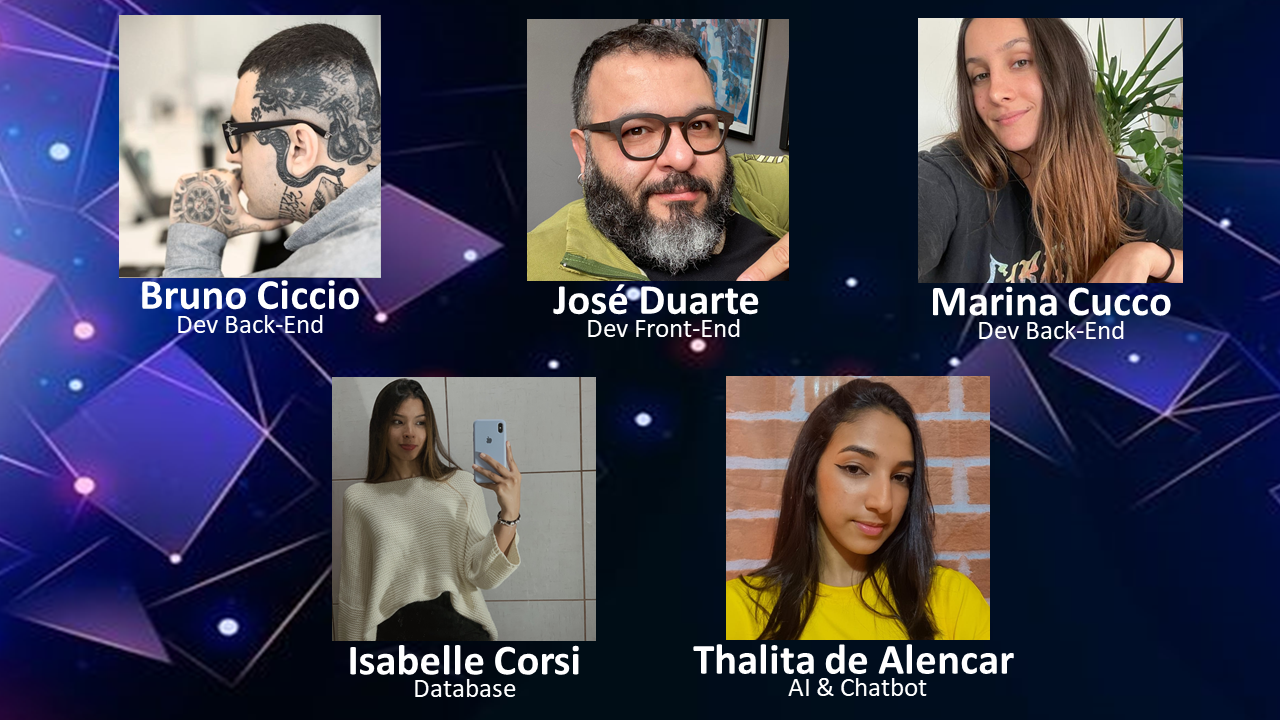
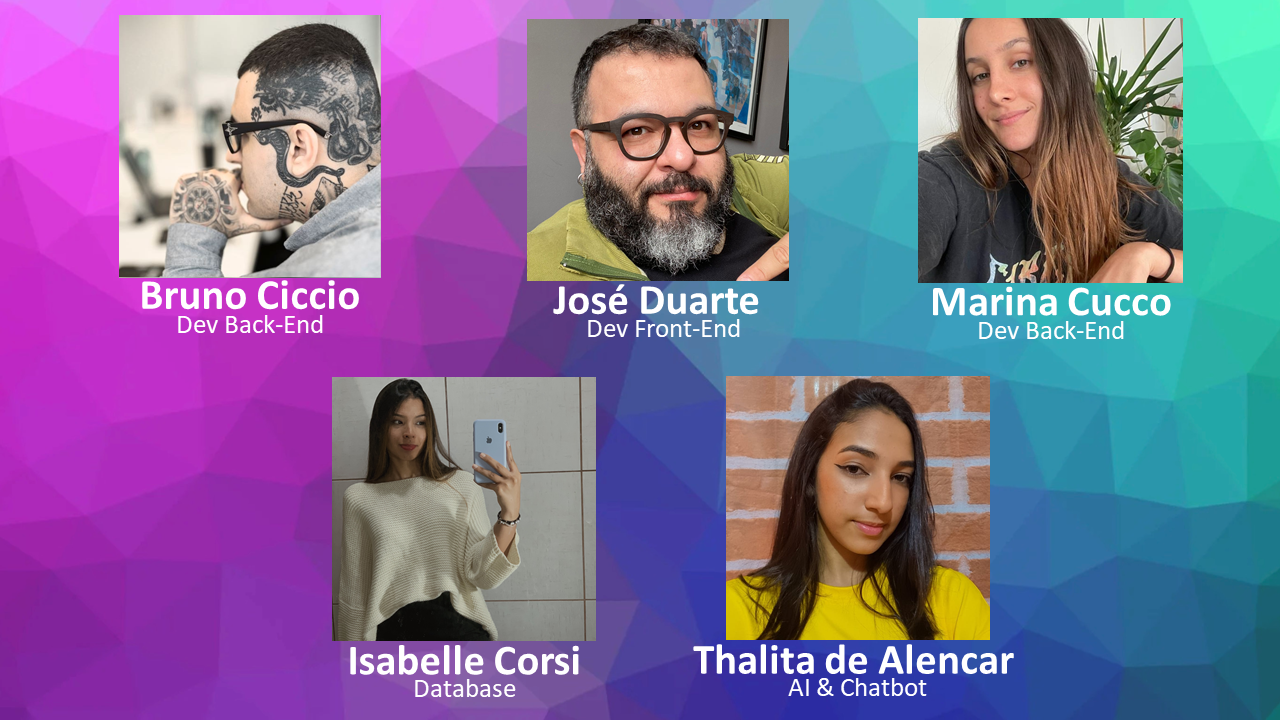
Mudanças no footer, e algumas melhorias no css

diff --git a/ai-&-chatbot.html b/ai-&-chatbot.html
@@ -30,7 +30,7 @@
     <div id="div__p">
             <h2 id="titulo__p">Chatbot do Projeto SAV</h2>
             <p id="paragrafo__p">O objetivo do grupo é desenvolver uma aplicação na qual, o processo de vistoria de bicicletas para o seguro da porto seja <strong>automatizado.</strong> Assim, ciclistas poderão realizar seus seguros sem <strong>sair  de casa, com mais rapidez e conforto.</strong> Ao decorrer do projeto o bot sofrerá diversas atualizações, assim melhorando a interface e usabilidade do cliente. A seguir, podemos ver como está o andamento do projeto através do diagrama exibido abaixo:</p>
-        <br><br><img id="img__p" src="imagens-projeto/sav-diagrama-novo-chatbot.png" alt="Diagrama do SAVBot">
+        <br><br><img id="img__p" src="imagens-projeto/sav-diagrama-novo-chatbot.png" alt="Diagrama do SAVBot"> <br><br>
     </div>
     <footer>
         <p class="copyright">&copy; Copyright SAV - Sistema de Automação de Vistorias - 2023</p>

diff --git a/computational-thinking-using.-python.html b/computational-thinking-using.-python.html
@@ -47,10 +47,10 @@
         </ul>
 
         <h3>Seguem abaixo 4 prints com partes das etapas de nosso Sistema: <br><br></h3>
-            <img src="imagens-projeto/print1pythonn.png">
-            <img src="imagens-projeto/print2pythonn.png">
-            <img src="imagens-projeto/print3pythonn.png">
-            <img src="imagens-projeto/print4pythonn.png">
+            <img src="imagens-projeto/print1pythonn.png"> <br> <br>
+            <img src="imagens-projeto/print2pythonn.png"> <br> <br>
+            <img src="imagens-projeto/print3pythonn.png"> <br><br>
+            <img src="imagens-projeto/print4pythonn.png"> <br><br>
         </div>
     </div>
    

diff --git a/software-design-&-total-experience.html b/software-design-&-total-experience.html
@@ -111,7 +111,7 @@
                 <br><p class="paragrafo">Video - Pitch - SAV</p><br>
                 <br><video width="50%" height="315" frameborder="0" autoplay controls>
                     <source src="videos-projeto/5FA7155F-C4FD-4B3F-8EDF-CC69F517CE85.mp4" type="video/mp4">
-                </video>                
+                </video><br><br>                
         </section>
     </main>
     <footer>

diff --git a/css-projeto/equipe.css b/css-projeto/equipe.css
@@ -8,7 +8,7 @@
     font-size: 45px;
     color: #ffffff;
     text-align: center;
-    padding: 20px;
+    padding: 15px;
     font-family: 'Montserrat', sans-serif;   
 }
 
@@ -16,7 +16,7 @@
     font-size: 20px;
     text-align: left;
     font-family: 'Montserrat', sans-serif;
-    margin: 10px 0 0 10px;
+    margin: 3px 0 0 10px;
     color: #ffffff;
 }
 

diff --git a/style.css b/style.css
@@ -51,13 +51,14 @@ footer {
 	text-align: center;
 	padding: 20px 0;
 	margin-top: 10px;
-	background: url(imagens-projeto/fundo-de-tela-sav.jpeg)
+	background: url(imagens-projeto/fundo.jpeg)
+	
 	
 }
 
 footer p {   
 	color: #fafafa;
-	padding: 20px;
+	padding: 30px;
 	font-size: 15px;
 	font-family: 'Montserrat', sans-serif;
 }

diff --git a/equipe-challenge.html b/equipe-challenge.html
@@ -36,6 +36,7 @@
         <br><p>RM 99097 - Bruno Mathews De Ciccio Oliveira - Dev Back-End</p>
         <br><p>RM 99488 - José Luiz Ferreira Duarte - Dev Front-End</p>
         <br><h3><img src="imagens-projeto/Equipe de Desenvolvedores do SAV.png"></h3>
+        <br>
     </div>
 
     <footer>
